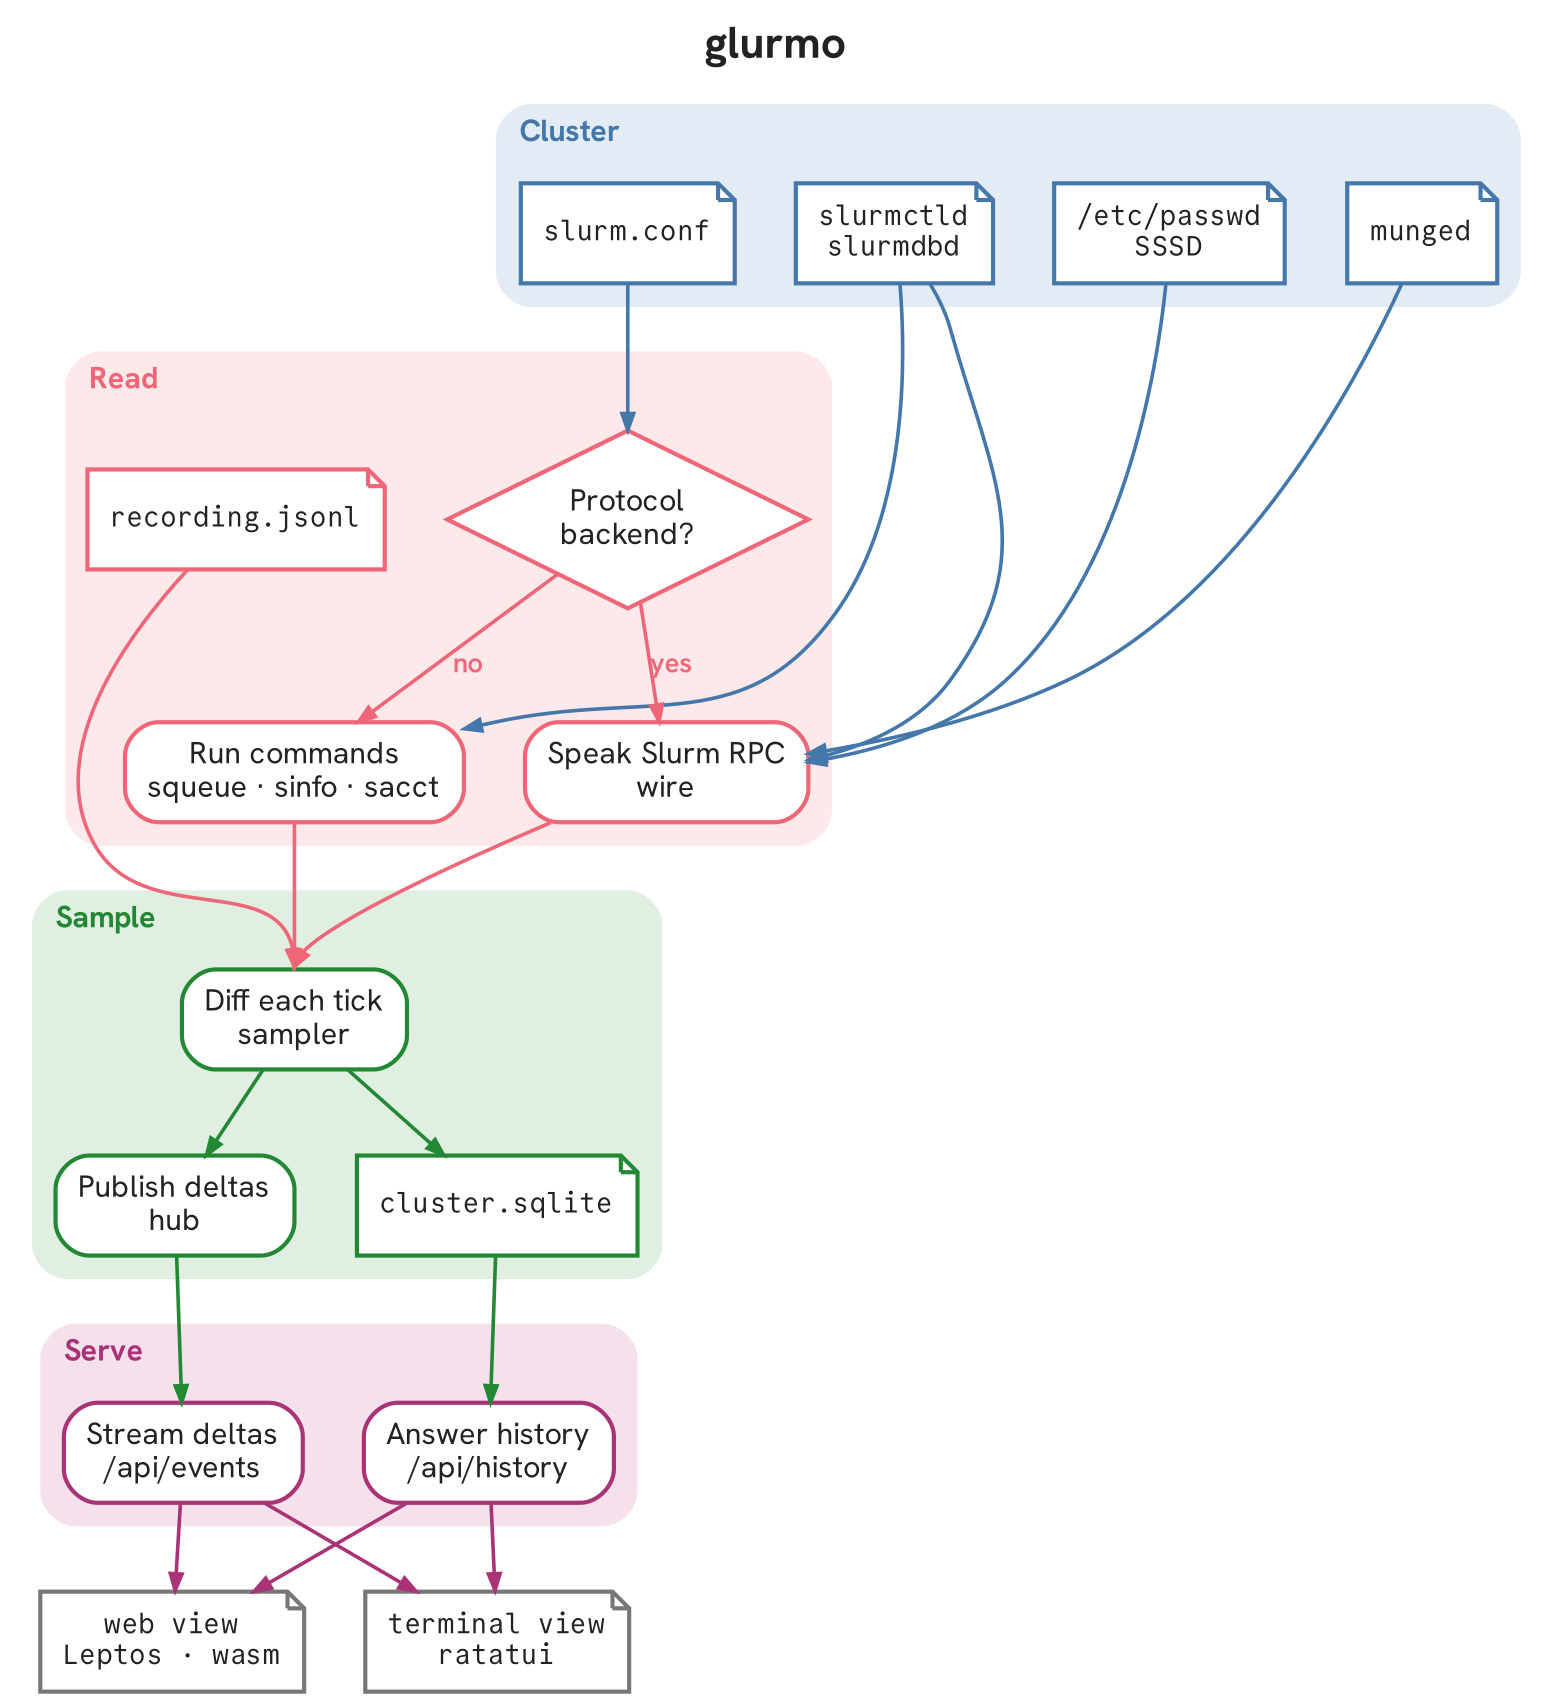
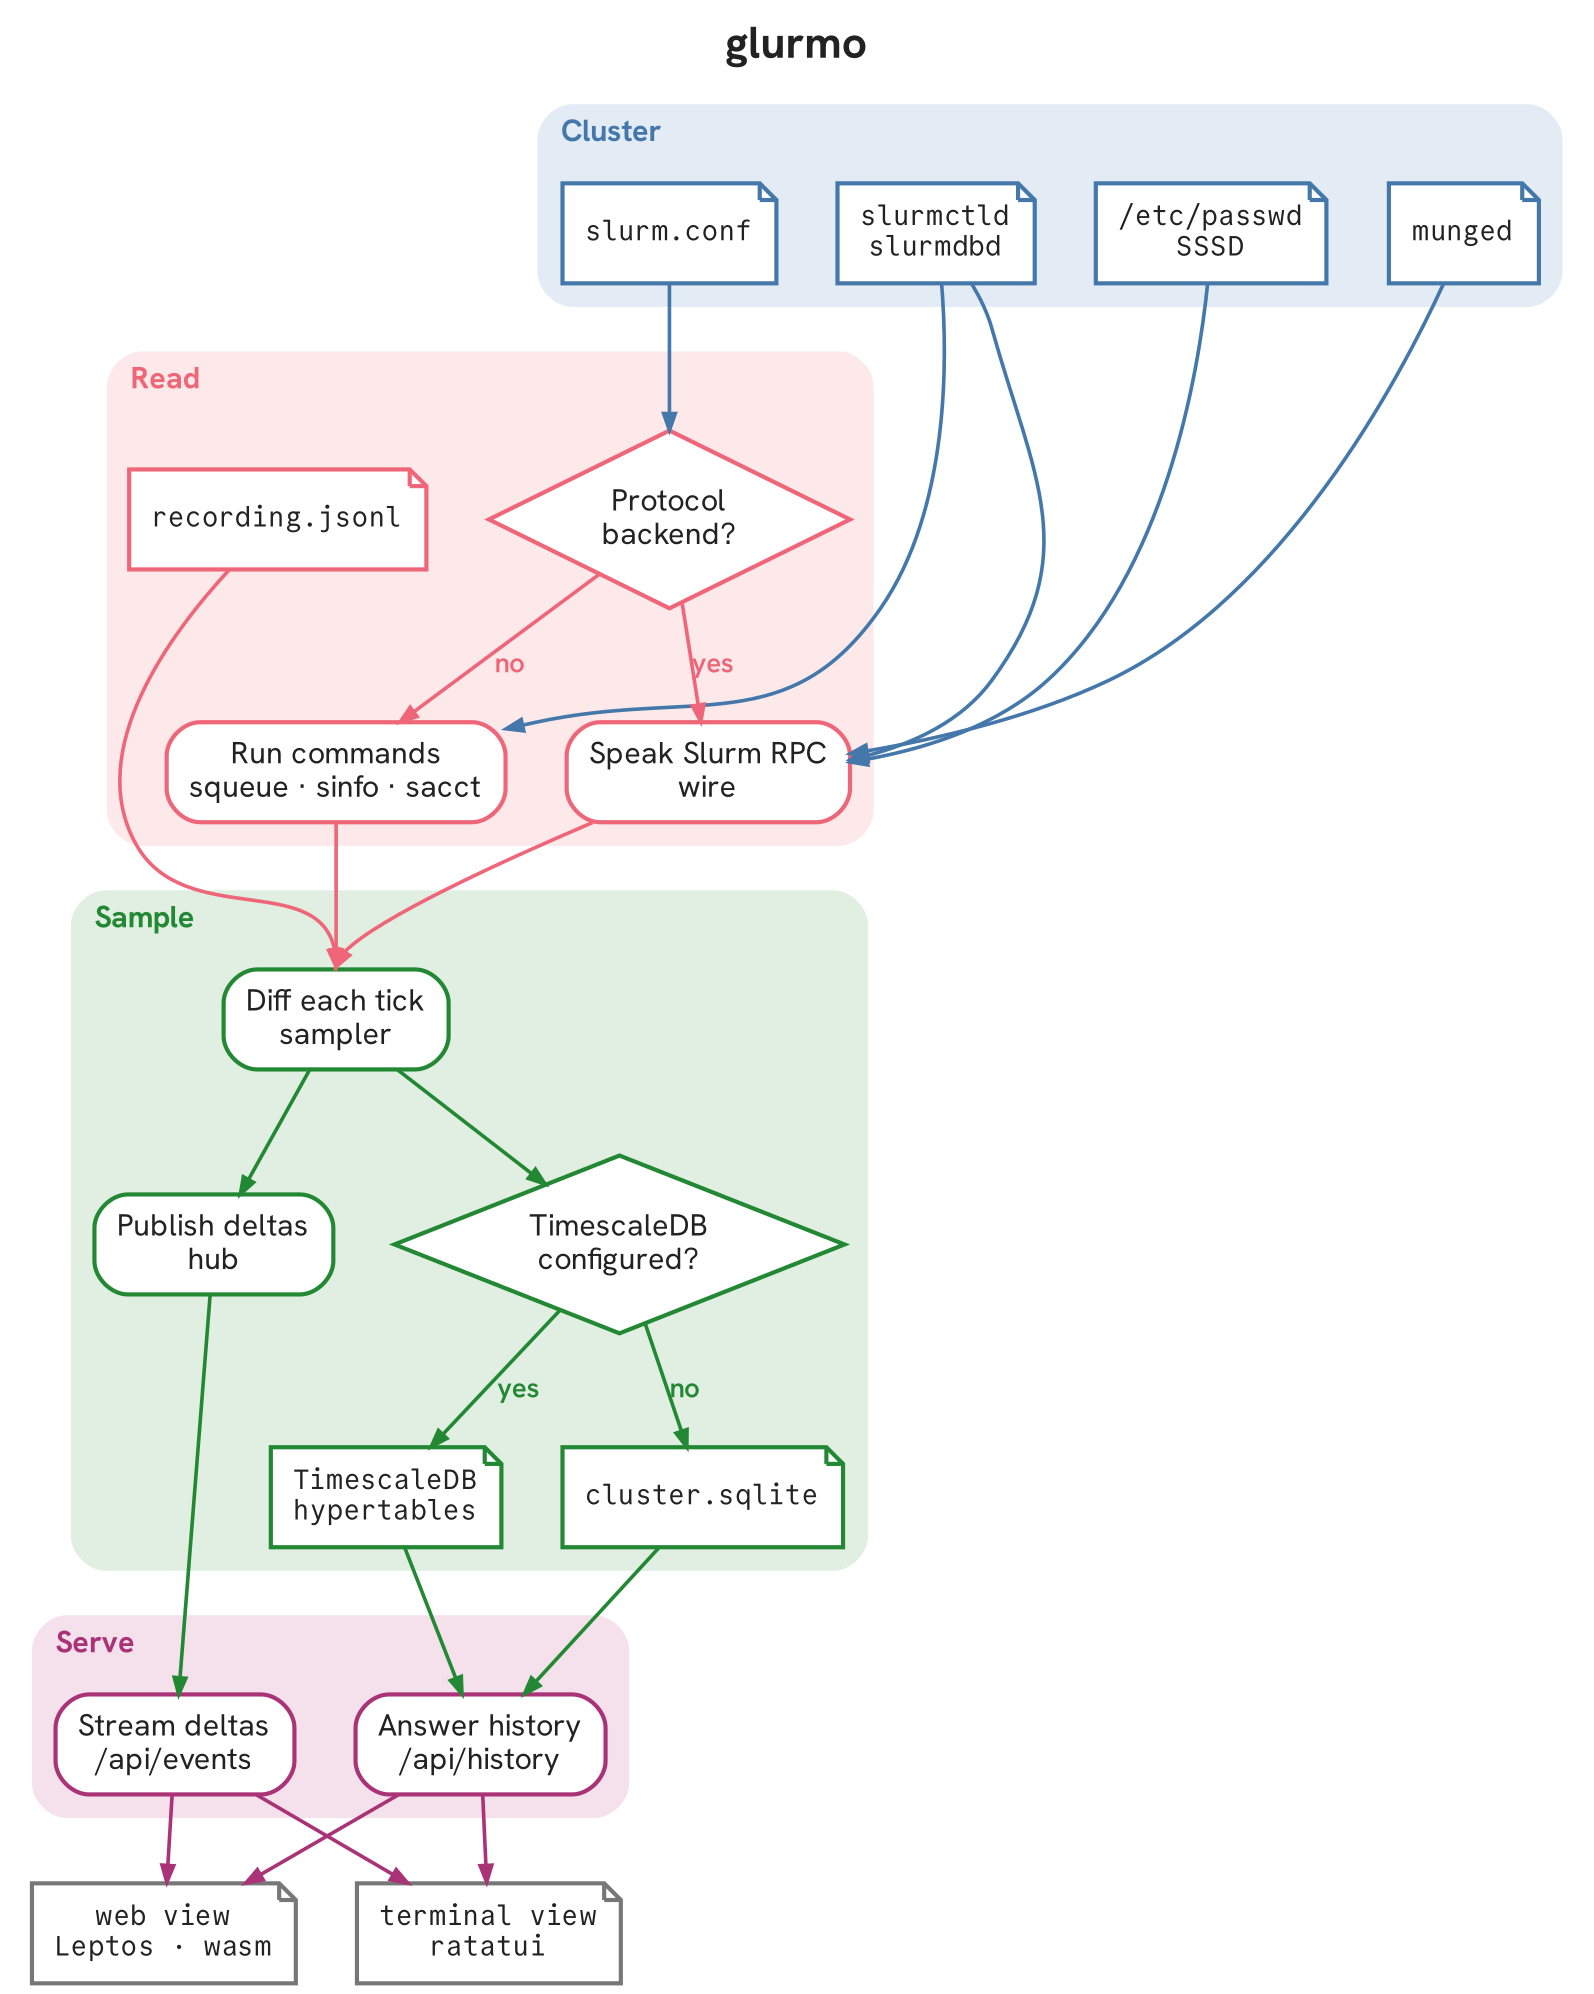
Show the store's two backends in the architecture diagram, and walk through TimescaleDB's setup in the guide

diff --git a/docs/guide.md b/docs/guide.md
@@ -38,19 +38,78 @@ Config(
 
 ### History on TimescaleDB
 
-`timescale` takes the place of `path` and names the server with a PostgreSQL connection string. Setting both is an error.
+A TimescaleDB server can hold history in place of the SQLite file. `timescale` takes the place of `path` and names the server with a PostgreSQL connection string. Setting both is an error.
 
 ```ron
-store: (timescale: "host=db user=glurmo dbname=glurmo", keep: Forever, backfill: Days(30)),
+store: (timescale: "host=/run/postgresql user=glurmo dbname=glurmo", keep: Forever, backfill: Days(30)),
 ```
 
-* The server needs PostgreSQL 16 to 18 and TimescaleDB 2.29.2 or later, with `shared_preload_libraries = 'timescaledb'`. Earlier releases can miss open attempts in compressed chunks. glurmo is tested with TimescaleDB 2.31.
-* Give glurmo a role of its own that owns the database. It needs no superuser rights.
-* glurmo creates its tables at its first start, and the `timescaledb` extension when the database lacks it. The extension is trusted, so the owner of the database can create it without superuser rights.
+#### The server
+
+The server needs PostgreSQL 16 to 18 and TimescaleDB 2.29.2 or later. Earlier releases can miss open attempts in compressed chunks. glurmo is tested with TimescaleDB 2.31. The server must load the extension at start, in `postgresql.conf` or on its command line:
+
+```
+shared_preload_libraries = 'timescaledb'
+```
+
+A site without one can run the `timescale/timescaledb` image under Apptainer, on a local disk, with a Unix socket and no TCP port:
+
+```sh
+dir=/scratch/you/timescaledb
+image=docker://timescale/timescaledb:2.31.0-pg18
+mkdir -p "$dir"
+apptainer exec --bind "$dir" "$image" initdb -D "$dir/data"
+apptainer exec --bind "$dir" "$image" postgres -D "$dir/data" -k "$dir" -p 5433 \
+    -c listen_addresses= -c unix_socket_permissions=0700 \
+    -c shared_preload_libraries=timescaledb -c timescaledb.telemetry_level=off
+```
+
+Run the last line under systemd, as `systemd/glurmo.service` runs glurmo, and give glurmo's unit `After=` and `Wants=` on it.
+
+#### The role and the database
+
+Give glurmo a role of its own that owns its database. It needs no superuser rights. As a superuser:
+
+```sql
+CREATE ROLE glurmo LOGIN;
+CREATE DATABASE glurmo OWNER glurmo;
+```
+
+glurmo creates its tables at its first start, and the `timescaledb` extension when the database lacks it. The extension is trusted, so the database's owner may create it.
+
+Over a Unix socket, peer authentication lets an operating-system user log in as the role of the same name. To log in as `glurmo` from another account, map it in `pg_ident.conf`, and use the map in `pg_hba.conf` above the line for all databases. Then reload the server:
+
+```
+# pg_ident.conf
+glurmo          you                     glurmo
+
+# pg_hba.conf
+local   glurmo          glurmo                                  peer map=glurmo
+```
+
+Over TCP, put `password=` in the connection string, and keep the config file readable by you alone. glurmo does not read `~/.pgpass`. The connection uses no TLS, so keep it on a network you trust.
+
+#### Limits
+
+A statement fails after 5 minutes, and a wait on a lock after 30 s. A failed write opens a gap, which accounting fills once writes work again. To change the limits, set them in the connection string's `options`, such as `options='-c lock_timeout=10s'`. Over TCP, a server that stops answering fails a call within a minute.
+
+#### Upkeep
+
 * Attempts and usage bins are hypertables in 30-day chunks. Chunks older than 7 days are compressed where the server's license covers compression. The Apache-licensed build keeps them uncompressed, and glurmo says so once.
-* The connection uses no TLS. Keep it on a Unix socket or a network you trust.
-* glurmo makes no nightly copy of this store. Back it up with the server's tools.
-* `glurmo copy STORE.sqlite "host=db user=glurmo dbname=glurmo"` copies an existing SQLite store into an empty database and prints each table's row count on both sides. The server on SQLite may keep running meanwhile. A server started on the copy fills the time since the copy from accounting.
+* `keep` prunes old history, as it does in SQLite.
+* glurmo makes no nightly copy of this store. Back it up with the server's tools, such as `pg_dump`.
+
+#### Moving from SQLite
+
+A new database backfills from accounting as far as `backfill` reaches, as a new SQLite store does. Accounting keeps no placements and no node health, so history from before the new store has neither.
+
+To keep them, copy the SQLite store into the empty database before glurmo first starts on it:
+
+```sh
+glurmo copy STORE.sqlite "host=/run/postgresql user=glurmo dbname=glurmo"
+```
+
+It prints each table's row count on both sides. The server on SQLite may keep running meanwhile. A copy that fails leaves the database empty, so it can run again. A server started on the copy fills the time since the copy from accounting, and users keep their colors.
 
 ## Run
 
